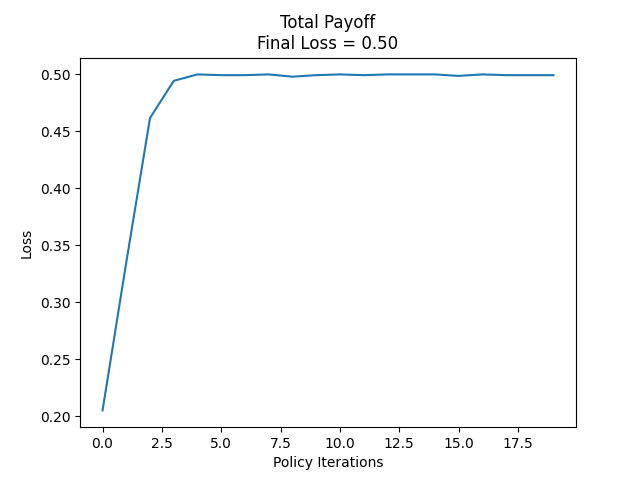
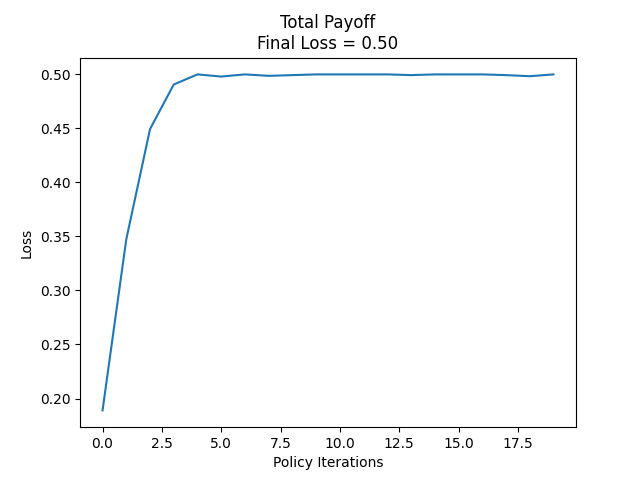
implement batch normalization

diff --git a/Utils/mdp.py b/Utils/mdp.py
@@ -379,7 +379,7 @@ class MarkovDecisionProcess:
         self.num_car_reduced_states = len(self.regions) * (self.max_tracked_eta + 1 + self.max_tracked_eta + 1) * self.num_binned_battery + len(self.regions) * self.num_binned_battery * self.num_charging_rates
         self.num_total_reduced_states = self.num_car_reduced_states + self.num_trip_reduced_states + self.num_plug_states
         ## TODO: Fix it!
-        self.num_total_local_states = len(self.regions) * (self.connection_patience + 1) + len(self.regions) + self.num_binned_battery + 1 + 1 #len(self.regions) #len(self.regions) * (self.connection_patience + 1) + 3
+        self.num_total_local_states = len(self.regions) * (self.connection_patience + 1) + len(self.regions) + self.num_binned_battery + 1 + self.pickup_patience #len(self.regions) #len(self.regions) * (self.connection_patience + 1) + 3
         self.num_total_local_states_region = len(self.regions) * (self.connection_patience + 1) + len(self.regions) + 1
 #        self.num_total_local_states = len(self.regions) * (self.connection_patience + 1) + 3
         ## Variables keeping track of states
@@ -1581,14 +1581,14 @@ class MarkovDecisionProcess:
     def get_local_state(self, car):
         dest, eta, battery = car.get_dest(), car.get_time_to_dest(), car.get_battery()
         local_state_counts = torch.zeros(self.num_total_local_states)
-        local_state_counts[0] = eta
-        local_state_counts[1 + dest] = 1
-        local_state_counts[1 + len(self.regions) + self.get_battery_pos(battery)] = 1
+        local_state_counts[eta] = 1
+        local_state_counts[self.pickup_patience + dest] = 1
+        local_state_counts[self.pickup_patience + len(self.regions) + self.get_battery_pos(battery)] = 1
 #        local_state_counts[0] = dest
 #        local_state_counts[1] = eta
 #        local_state_counts[2] = battery
         begin, end = self.local_order_map[dest]
-        start = 1 + len(self.regions) + self.num_binned_battery
+        start = self.pickup_patience + len(self.regions) + self.num_binned_battery
         term = start + (end - begin)
         local_state_counts[start:term] += self.state_counts[begin:end] #(self.state_counts[begin:end] > 0)
         self.state_counts_norm[(self.num_total_reduced_states + start):(self.num_total_reduced_states + term)] = self.max_trip_arrival_rate

diff --git a/Utils/neural.py b/Utils/neural.py
@@ -15,7 +15,7 @@ class Net(nn.Module):
         for act in activation_lst:
             assert act in ["relu", "softmax", "tanh"]
         self.layer_lst = nn.ModuleList()
-#         self.bn = nn.ModuleList()
+        self.bn = nn.ModuleList()
         self.batch_norm = batch_norm
         self.activation_lst = activation_lst
         self.prob = prob
@@ -28,7 +28,7 @@ class Net(nn.Module):
             self.embedding = nn.Embedding(num_embeddings, embedding_dim)
             self.input_dim += embedding_dim
         self.layer_lst.append(nn.Linear(self.input_dim, hidden_dim_lst[0]))
-#         self.bn.append(nn.BatchNorm1d(hidden_dim_lst[0],momentum=0.1))
+        self.bn.append(nn.BatchNorm1d(hidden_dim_lst[0],momentum=0.1))
         for i in range(1, len(hidden_dim_lst)):
             self.layer_lst.append(nn.Linear(hidden_dim_lst[i - 1], hidden_dim_lst[i]))
 #             self.bn.append(nn.BatchNorm1d(hidden_dim_lst[i],momentum=0.1))
@@ -46,8 +46,8 @@ class Net(nn.Module):
             x = torch.cat((x, embeds), dim=1)
         for i in range(len(self.layer_lst) - 1):
             x = self.layer_lst[i](x)
-#             if self.batch_norm:
-#                 x = self.bn[i](x)
+            if self.batch_norm and i == 0:
+                x = self.bn[i](x)
             if self.activation_lst[i] == "relu":
                 x = F.relu(x)
             elif self.activation_lst[i] == "softmax":
